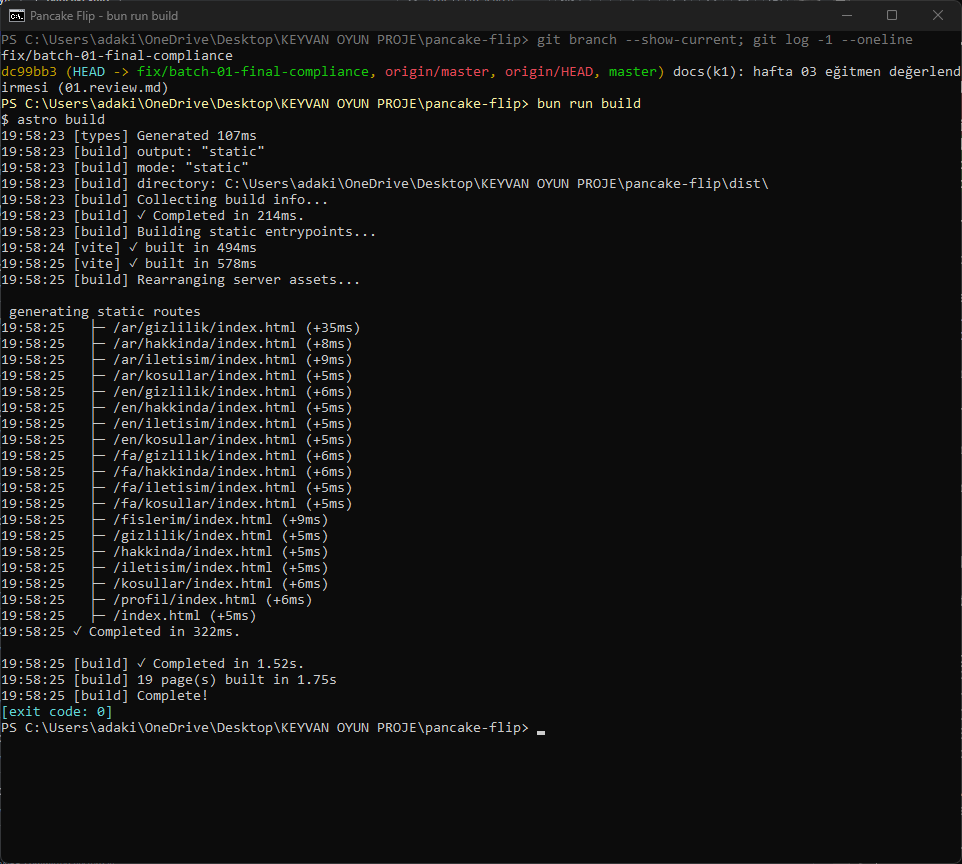
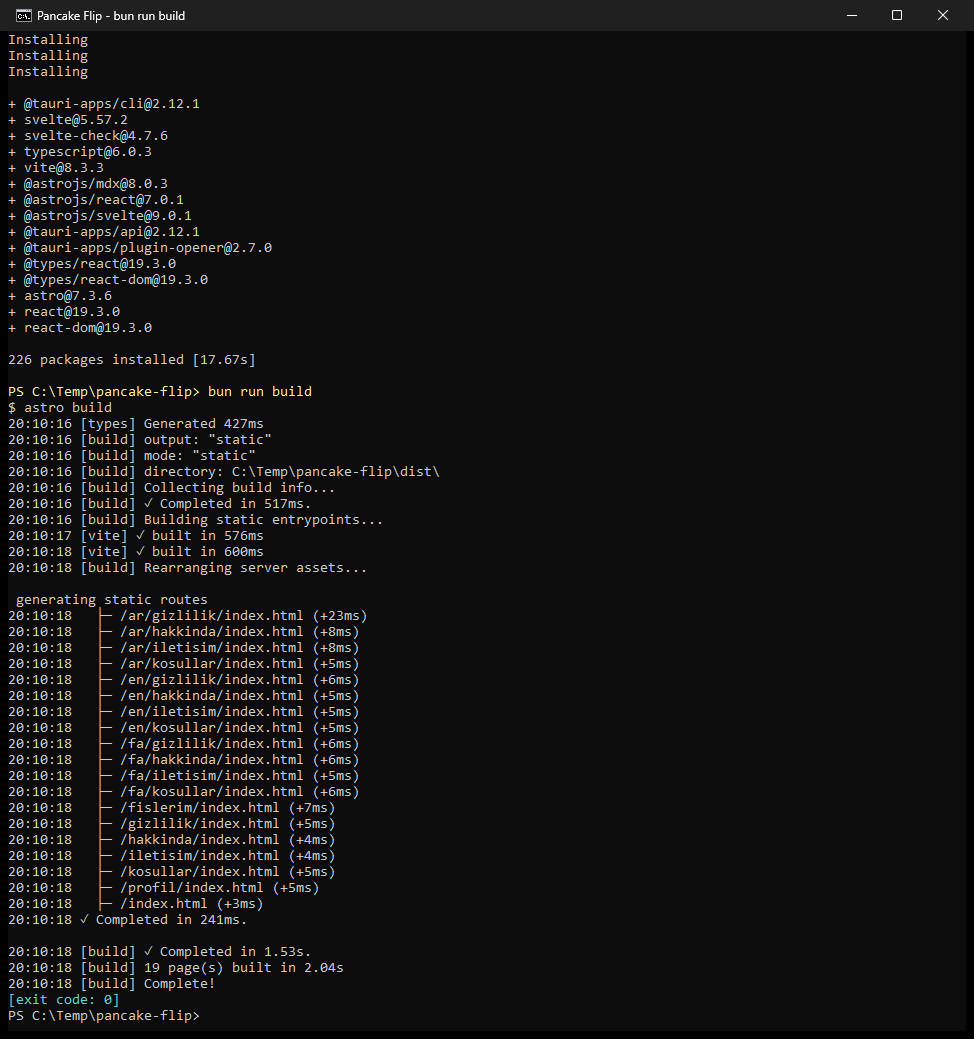
docs: clean batch 01 evidence and delivery notes

Changed region(s): [[0.0, 0.0, 1.0, 1.0]]

diff --git a/docs/teslim.md b/docs/teslim.md
@@ -22,13 +22,13 @@ Her madde depoda tek tek denetlendi (09.10.2026).
 
 ## 2. Derleme Kanıtı (Build Proof)
 
-`fix/batch-01-final-compliance` dalında, gerçek bir PowerShell penceresinde `bun run build` çalıştırıldı; pencerenin ekran görüntüsü alındı. Çıktıda 19 sayfanın tamamı, `19 page(s) built`, `Complete!` ve `exit code: 0` görünür.
+Build kanıtı, güncel master'ın `C:\Temp\pancake-flip` altındaki temiz bir klonunda alınmıştır: gerçek bir PowerShell penceresinde `bun install` ve `bun run build` çalıştırıldı, pencerenin ekran görüntüsü alındı. Çıktıda 19 sayfanın tamamı, `19 page(s) built`, `Complete!` ve `exit code: 0` görünür.
 
 ![bun run build çıktısı](kanit/batch-01-build.png)
 
 ## 3. Tauri Uygulaması (`bun run tauri dev`)
 
-`bun run tauri dev` ile Rust tarafı derlendi (23,4 sn) ve masaüstü uygulaması açıldı. Görüntü, çalışan "Pancake Flip!" penceresinden alındı: lobi, tabela, şef ve karatahta, OYNA düğmesi ve alt menü. Alttaki küçük koyu araç çubuğu Astro'nun yalnızca geliştirme modunda görünen araç çubuğudur.
+Tauri uygulaması aynı temiz klondan (`C:\Temp\pancake-flip`, güncel master) `bun run tauri dev` ile açıldı. Görüntü, çalışan uygulamanın kendi "Pancake Flip!" penceresinden alındı: lobi, tabela, şef ve karatahta, OYNA düğmesi ve alt menü. Alttaki küçük koyu araç çubuğu Astro'nun yalnızca geliştirme modunda görünen araç çubuğudur.
 
 ![Tauri dev penceresi](kanit/tauri-dev-batch-01.png)
 
